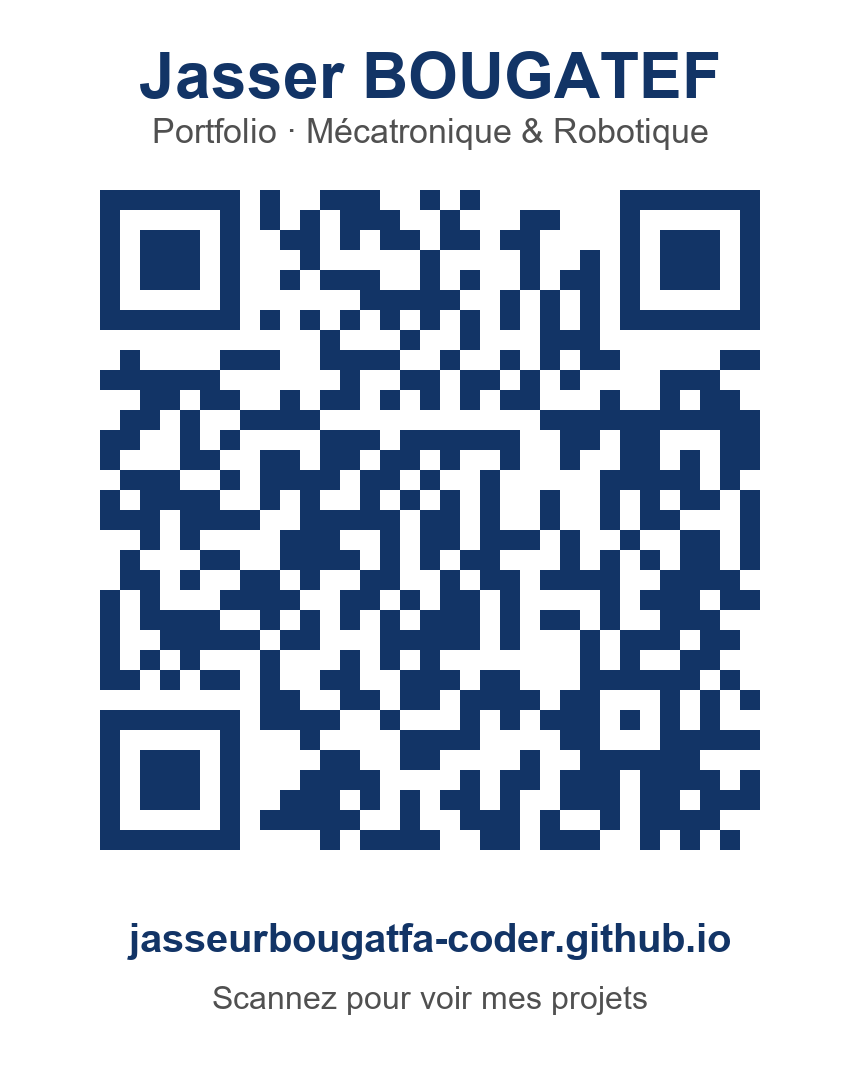
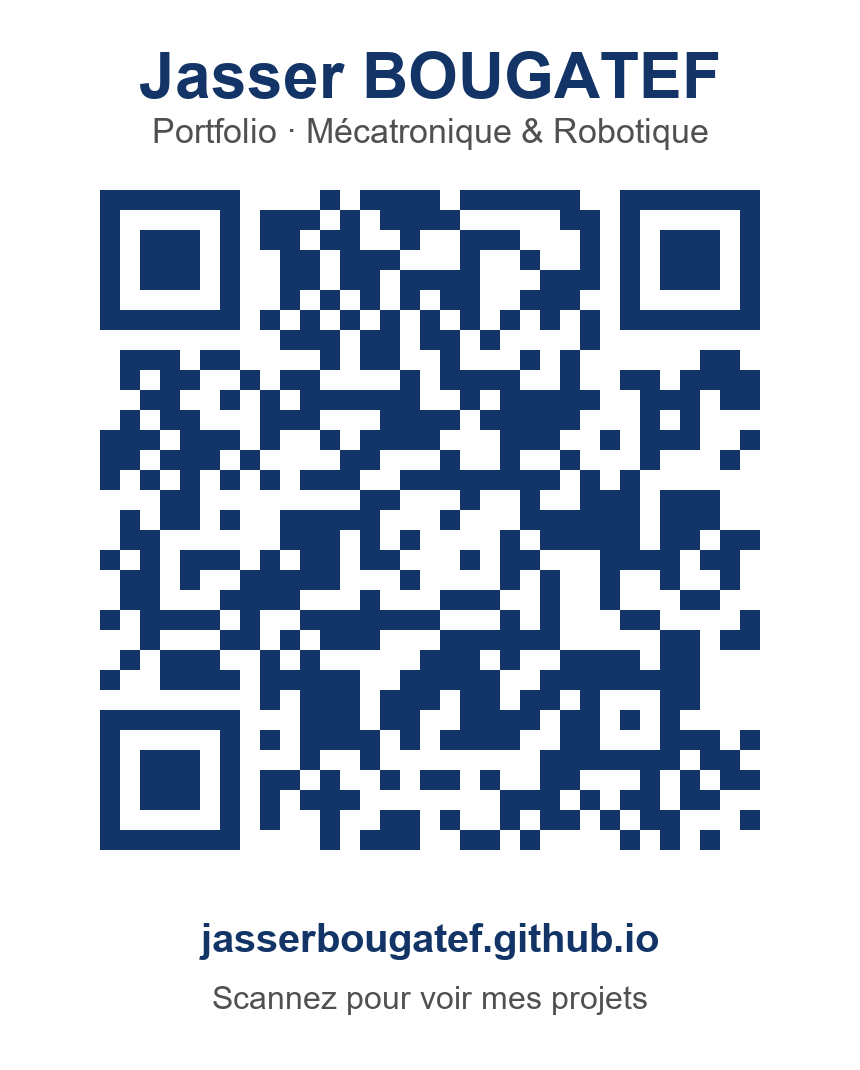
GitHub links, QR code, updated CV

Changed region(s): [[0.0907, 0.1542, 0.907, 0.8019], [0.1512, 0.8636, 0.8465, 0.8944]]

diff --git a/index.html b/index.html
@@ -445,7 +445,7 @@ footer .wrap{display:flex;justify-content:space-between;gap:12px;flex-wrap:wrap}
    CONFIGURATION — modifie seulement cette partie
    ===================================================================== */
 const CONFIG = {
-  github:   "https://github.com/jasseurbougatfa-coder",   // (vide = bouton masqué)
+  github:   "https://github.com/jasserbougatef",   // (vide = bouton masqué)
   linkedin: "https://www.linkedin.com/in/bougatf-jasser",
   email:    "jasser.bougatef@sigma-clermont.fr",
   phone:    "+33 7 54 89 40 23",
